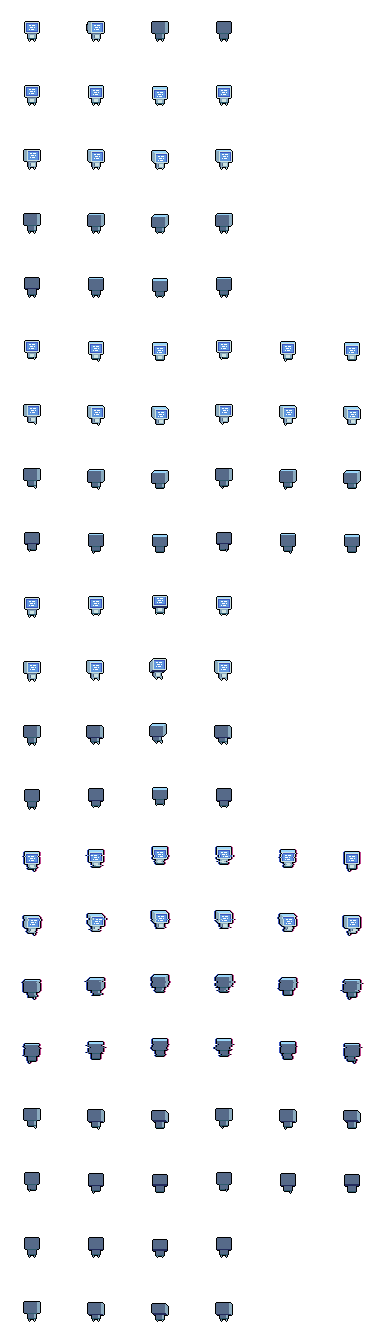
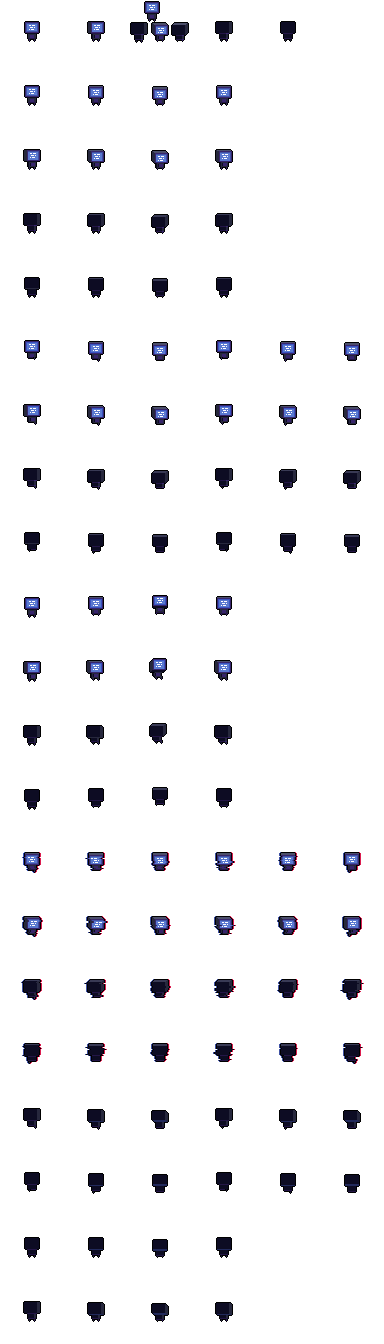
Add new particle and shadow assets; update hurtbox effects and enemy bullet configurations

diff --git a/Game/Entities/Player/AnimatedSpriteC.cs b/Game/Entities/Player/AnimatedSpriteC.cs
@@ -5,6 +5,7 @@ public partial class AnimatedSpriteC : AnimatedSprite
 {
     
     private const string RunAnim = "Run";
+    private Player player;
 
     private Direction directionNode;
     private string currentDirection;
@@ -13,6 +14,7 @@ public partial class AnimatedSpriteC : AnimatedSprite
     public override void _Ready()
     {
         directionNode = GetNode<Direction>("Direction");
+        player = GetOwner<Player>();
     }
     public override void _Process(double delta)
     {
@@ -34,9 +36,8 @@ public partial class AnimatedSpriteC : AnimatedSprite
 
         currentDirection = directionNode.GetDirection(sectionIndex);
 
-        PlayAnimation(currentAnim, 1);
-        
-        
+        if (player.dodgeTime > 0) PlayAnimation("Glitch", 5);
+        else PlayAnimation(currentAnim, 1);
     }
 
     public override void PlayAnimation(string animation, int priority = 0)

diff --git a/Components/DamageComps/Hurtbox.cs b/Components/DamageComps/Hurtbox.cs
@@ -60,6 +60,8 @@ public partial class Hurtbox : Area2D
 
     private void Effects()
     {
+        animation.Rotation = (float)GD.RandRange(0, Mathf.Tau);
+        
         animation.Play("default");
         particles.Emitting = true;
         if (hitFlash != null) hitFlash.Blink();

diff --git a/Game/Entities/TestEnemies/Look.cs b/Game/Entities/TestEnemies/Look.cs
@@ -27,7 +27,6 @@ public partial class Look : Marker2D
 
 
             Rotation = snappedAngle;
-            Rotation = targetRotation;
         }
         else
         {
